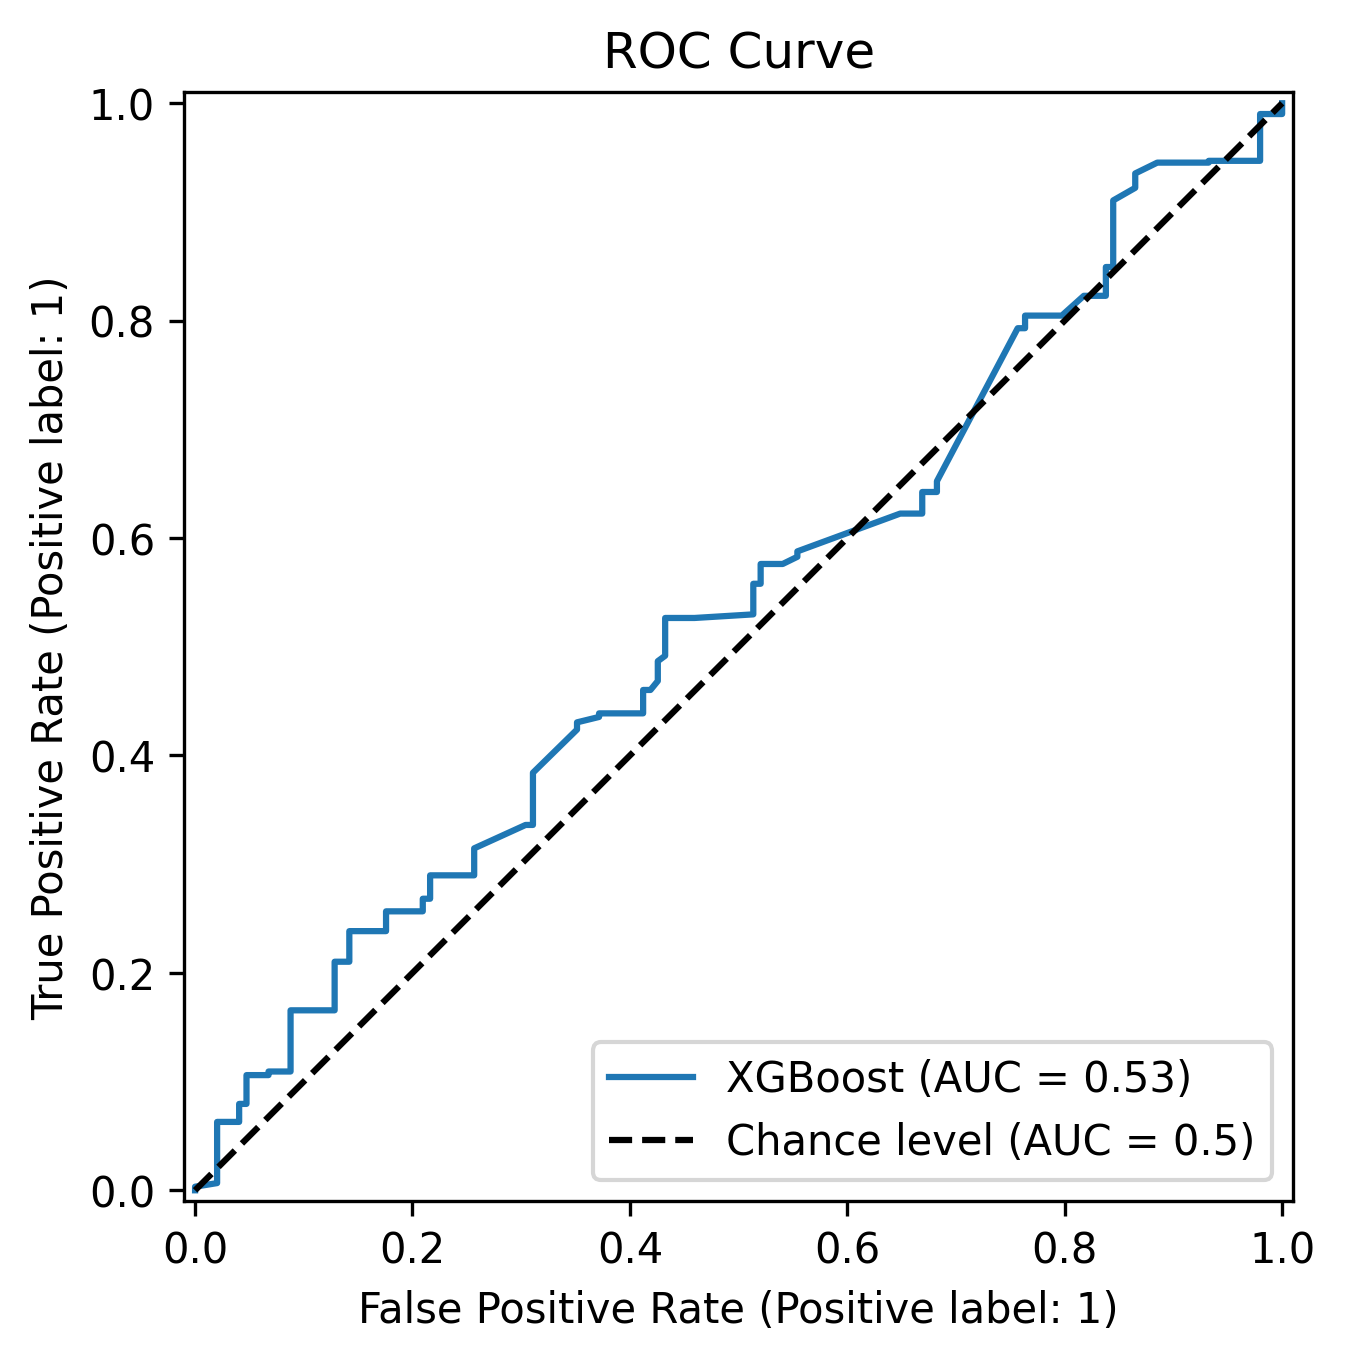
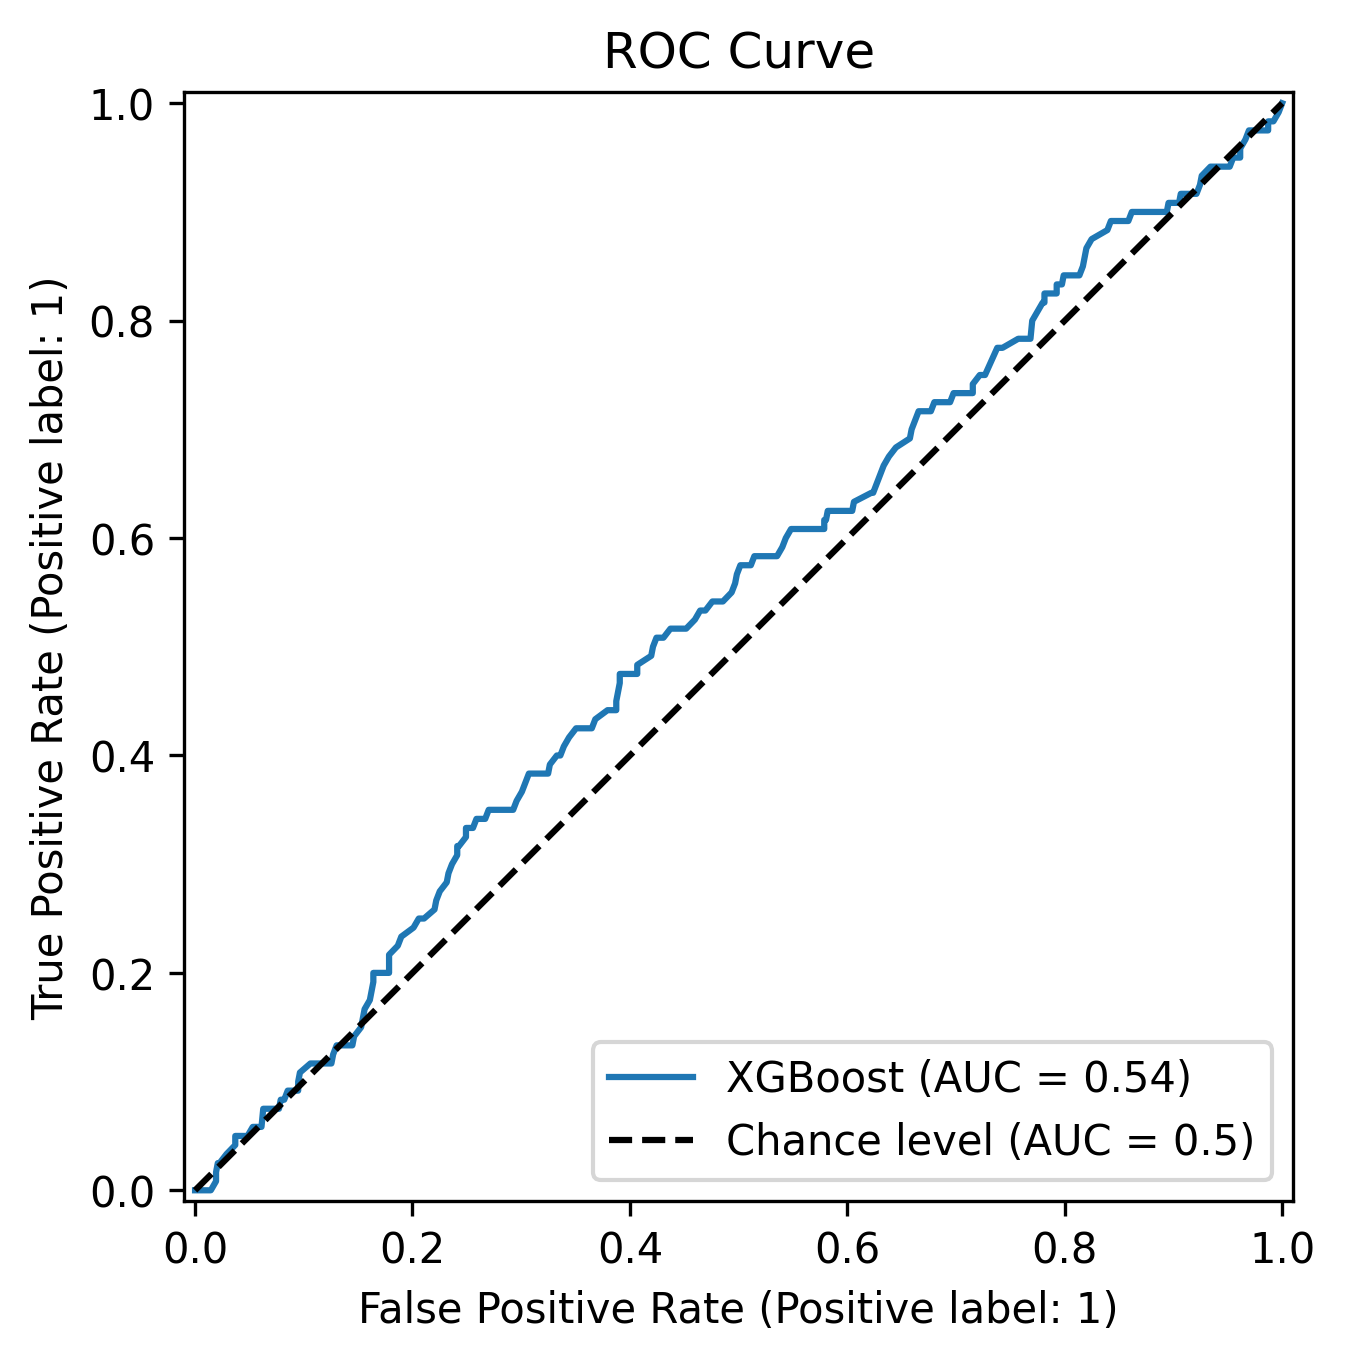
Final XGBoost model

diff --git a/XGB.py b/XGB.py
@@ -1,86 +1,181 @@
+import numpy as np
 import pandas as pd
 import xgboost as xgb
 import matplotlib.pyplot as plt
 
 from sklearn.model_selection import train_test_split
-from sklearn.metrics import accuracy_score, confusion_matrix, classification_report, RocCurveDisplay
+from sklearn.metrics import (
+    accuracy_score,
+    confusion_matrix,
+    classification_report,
+    RocCurveDisplay
+)
 
-# Read the file
+
+def compute_features(d):
+    price_range = d["High"] - d["Low"]
+    price_range = price_range if price_range != 0 else 1e-9
+
+    close_position = (d["Close"] - d["Low"]) / price_range
+
+    body_ratio     = abs(d["Close"] - d["Open"]) / price_range
+
+    upper_shadow   = d["High"] - max(d["Open"], d["Close"])
+    lower_shadow   = min(d["Open"], d["Close"]) - d["Low"]
+    shadow_ratio   = (upper_shadow + lower_shadow) / price_range
+
+    log_volume     = np.log1p(d["Volume"])
+
+    return {
+        "close_position": round(close_position, 6),
+        "body_ratio":     round(body_ratio, 6),
+        "shadow_ratio":   round(shadow_ratio, 6),
+        "log_volume":     round(log_volume, 6),
+       
+    }
+
+
+# Read file
 data = pd.read_csv("Amazon_data.csv")
 
-data = data.sort_values("Date")  # sort by Date
+# Sort by date (IMPORTANT for time series)
+data = data.sort_values("Date")
+data = data.dropna()
 
-data["Target"] = data["Target"].map({1: 1, -1: 0})
+# Convert target labels (1 = Up, -1 = Down → 1/0)
+data["Target"] = (
+    data["Close"].shift(-1) > data["Close"]
+).astype(int)
 
-# drop unwanted columns
+# Drop unnecessary columns
+drop_cols = [
+    "Date", "Company", "Comments",
+    "Cleaned_Text",
+    "Sentiment", "Sentiment_Signed",
+    "Adj Close", "Score",
+    "Sentiment_Score"
+]
 
-drop_cols = ["Date", "Company", "Comments", "Cleaned_Text", "Return","Sentiment", "Sentiment_Signed", "Adj Close", "Score","Sentiment_Score"]
+# Engineered features (added to DataFrame before drop/dropna)
+price_range            = (data["High"] - data["Low"]).replace(0, 1e-9)
+
+data["close_position"] = (data["Close"] - data["Low"]) / price_range
+data["body_ratio"]     = abs(data["Close"] - data["Open"]) / price_range
+data["shadow_ratio"]   = (
+                            (data["High"] - data[["Open", "Close"]].max(axis=1)) +
+                            (data[["Open", "Close"]].min(axis=1) - data["Low"])
+                         ) / price_range
+data["log_volume"]     = np.log1p(data["Volume"])
+
 data = data.drop(columns=drop_cols, errors="ignore")
-data = data.dropna() #removes missing data
-features = ['Close', 'High', 'Low', 'Open', 'Volume']
+
+# Remove NaNs created by rolling/lagging
+data = data.dropna()
+
+# -----------------------------
+# Features
+# -----------------------------
+features = [
+    "Open",
+    "High",
+    "Low",
+    "Close",
+    "Volume",
+    "close_position",
+    "body_ratio",
+    "log_volume",
+]
+
 
 X = data[features]
 y = data["Target"]
-# train 80% data and 20% testing
-# Keep shuffle false since data is time sensitive
-X_train, X_test, y_train, y_test = train_test_split(
-    X, y, test_size=0.2, shuffle=False
-)
-# Using Classifier
-model = xgb.XGBClassifier()
 
-# train model
+# Train/test split (NO SHUFFLE for time series)
+X_train, X_test, y_train, y_test = train_test_split(
+    X,
+    y,
+    test_size=0.2,
+    shuffle=False
+)
+
+# -----------------------------
+# XGBoost model
+# -----------------------------
+positive = (y_train == 1).sum()
+negative = (y_train == 0).sum()
+
+scale_pos_weight = (
+    negative / positive
+)
+
+model = xgb.XGBClassifier(
+    random_state=42,
+    learning_rate=0.05,
+    eval_metric="auc",
+    scale_pos_weight=scale_pos_weight,
+)
+
+# Train
 model.fit(X_train, y_train)
-# make predictions
+
+# Predict
 pred = model.predict(X_test)
 
+# Metrics
 print("\nAccuracy:", accuracy_score(y_test, pred))
-print("\nClassification Report:\n", classification_report(y_test, pred))
-# prints feature on which model is trained
-print(model.get_booster().feature_names)
-plt.figure()
+
+print("\nClassification Report:")
+print(classification_report(y_test, pred))
+
+# Confusion matrix
 cm = confusion_matrix(y_test, pred)
+
 plt.imshow(cm)
 plt.title("Confusion Matrix")
 plt.colorbar()
+
 plt.xticks([0, 1], ["Down", "Up"])
 plt.yticks([0, 1], ["Down", "Up"])
+
 for i in range(2):
     for j in range(2):
-        plt.text(j, i, cm[i, j], ha="center", va="center")
+        plt.text(j, i, cm[i, j],
+                 ha='center',
+                 va='center')
+
 plt.xlabel("Predicted")
 plt.ylabel("Actual")
-plt.show()
-plt.savefig("CM_Xgb.png", dpi=300, bbox_inches="tight")
 
-# sample data
-sample_input = {
-    'Close': 150,
-    'High': 152,
-    'Low': 148,
-    'Open': 149,
-    'Volume': 1000000,
+#plt.savefig("CM_Xgb.png", dpi=300, bbox_inches="tight")
+#plt.show()
 
-}
-# Convert data into dataframe 
-#  XGBooster accepts dataframe(2D table)
-sample_data = pd.DataFrame([sample_input])
+# -----------------------------
+# Sample prediction
+# -----------------------------
 
-result = model.predict(sample_data)
+def predict(sample_input):
+    # Add engineered features to sample input
+    sample_input.update(compute_features(sample_input))
 
-print("\nSample Prediction:")
-print(result)
-print("Training data: ",y_train.value_counts())
-print("Testing data: ",y_test.value_counts())
+    sample_data = pd.DataFrame([sample_input])[features]
 
-# 5. Plot
+    result = model.predict(sample_data)
+
+    print("\nSample Prediction:")
+    print("Up" if result[0] == 1 else "Down")
+
+    return result[0]
+
+
 RocCurveDisplay.from_estimator(
-    estimator=model,   # your trained XGBoost model
-    X=X_test,          # test features
-    y=y_test,          # true labels
+    estimator=model,
+    X=X_test,
+    y=y_test,
     name="XGBoost",
     plot_chance_level=True
 )
+
 plt.title("ROC Curve")
+
+#plt.savefig("roc_curve.png", dpi=300, bbox_inches="tight")
 #plt.show()
-plt.savefig("roc_curve.png", dpi=300, bbox_inches="tight")